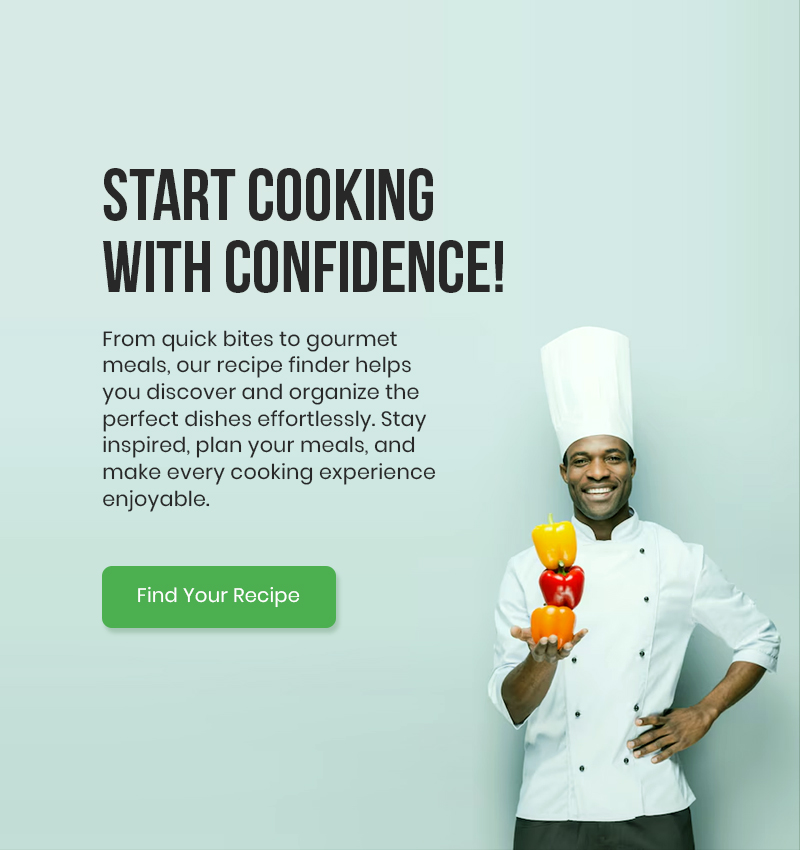
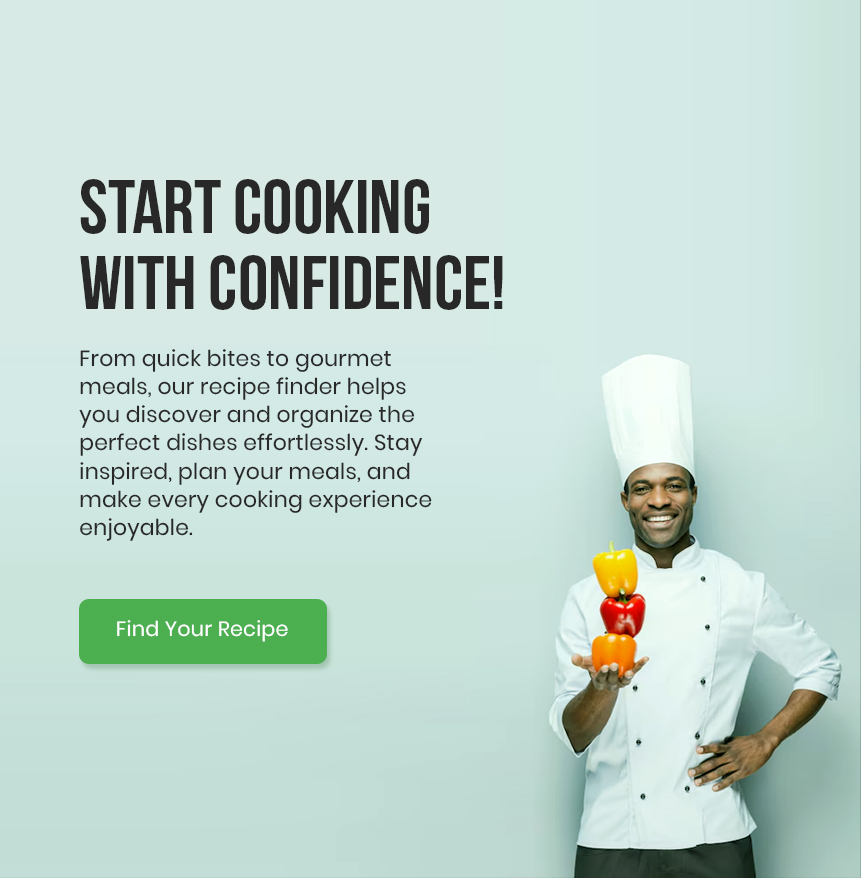
changes

diff --git a/css/responsive.css b/css/responsive.css
@@ -192,6 +192,7 @@
   }
 
   .youradvertise {
-    height: 345px;
+    width: 324px;
+    height: 330px;
   }
 }
